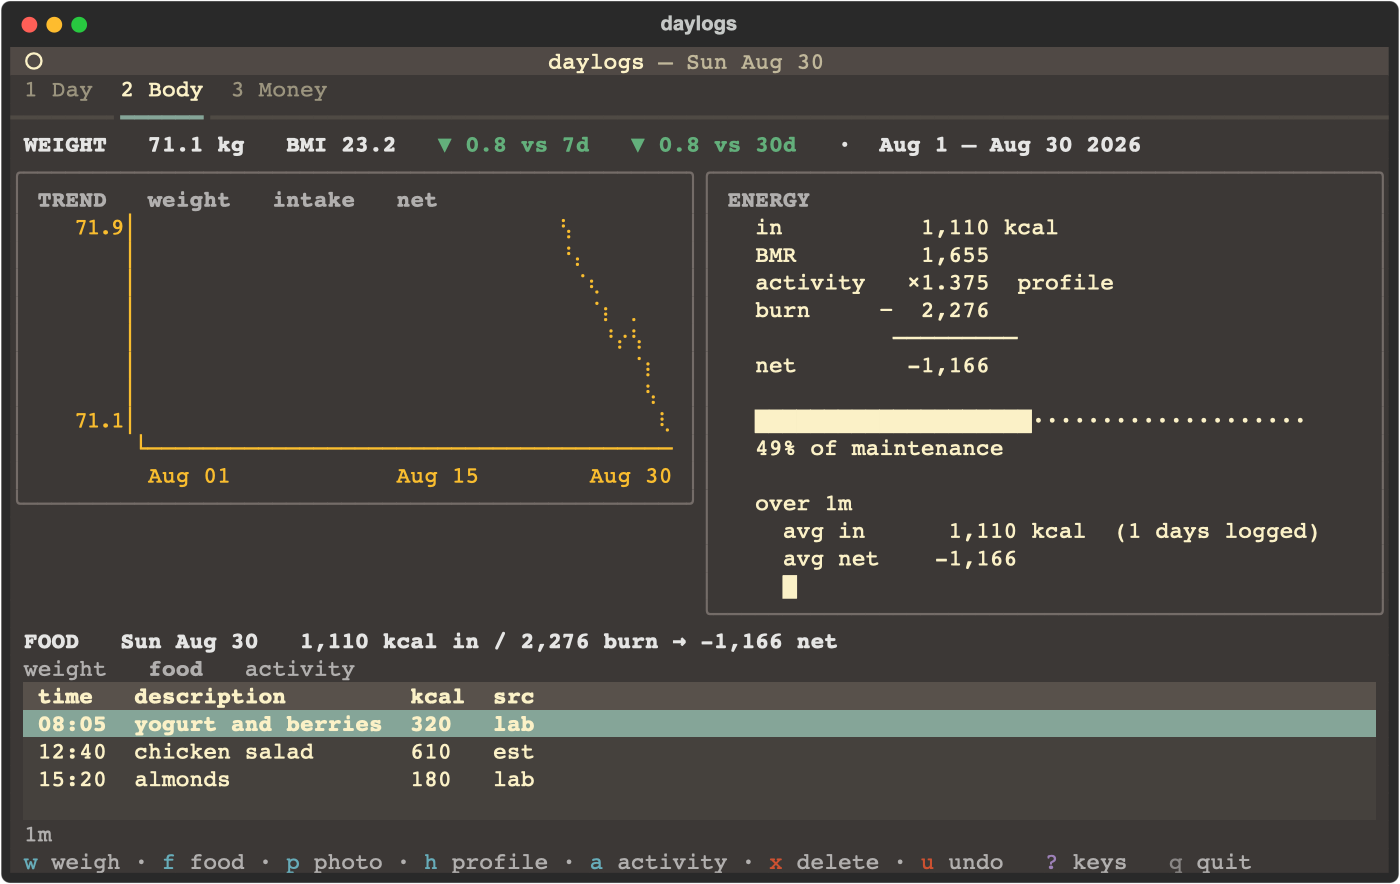
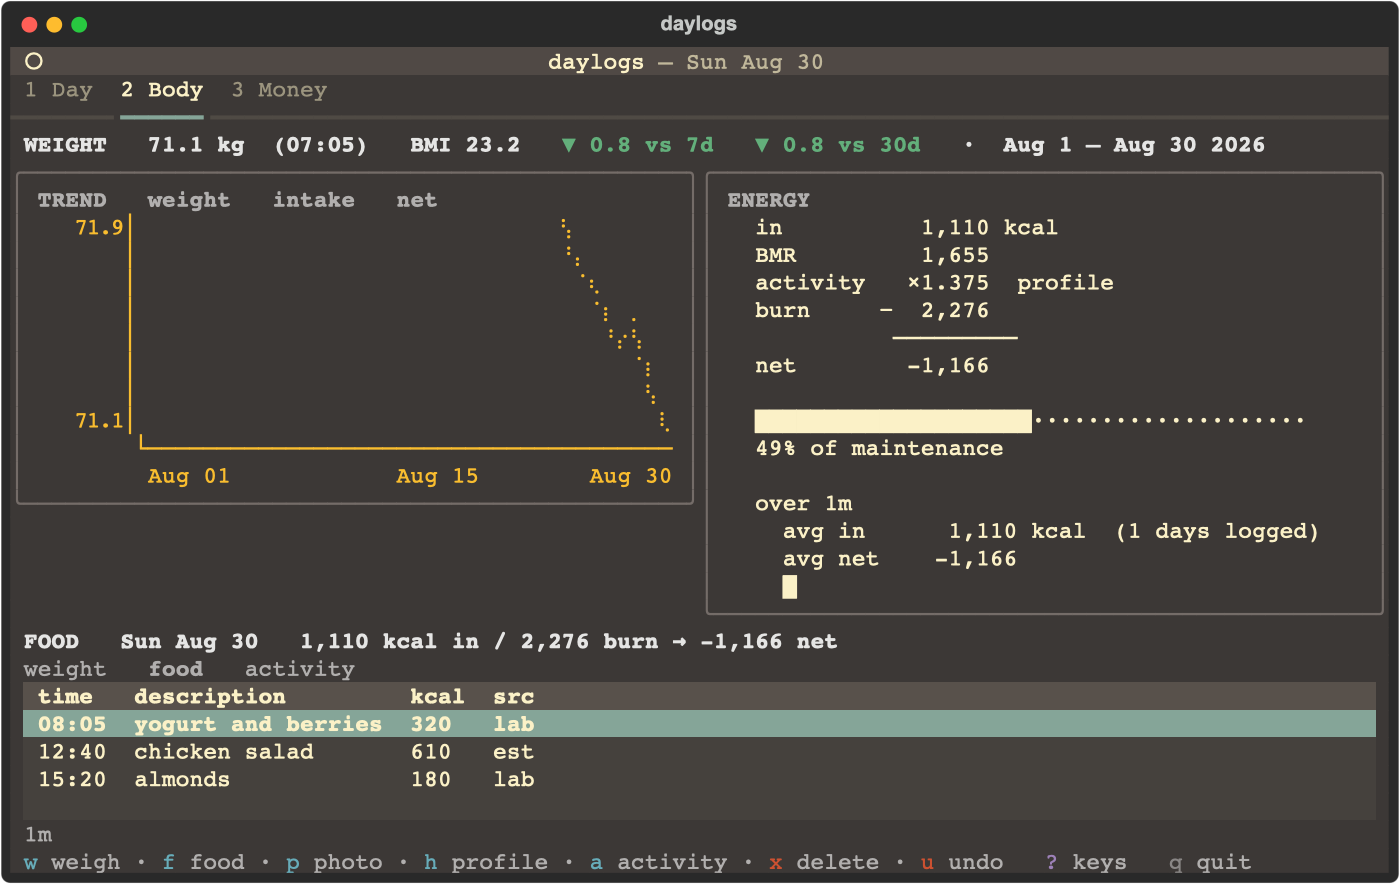
release: 0.3.0 (#30)
A minor bump rather than a patch: this line adds features, not just fixes. `a` logs
an activity and Claude infers the day's factor, `c` cycles the chart through weight /
intake / net, BMI appears beside the weight, `net` is measured against what the day
actually cost, and the timezone comes from the machine.

Contents since 0.2.0 — #23 net against burn plus BMI, #24 the `a` key and the
activity sub-view, #25 the calories chart, #26 the weight table honouring the
horizon, #27 one timezone taken from the machine, #29 six defects an adversarial
audit found plus the release gate and three missing tripwires.

`assets/body.png` regenerated: the WEIGHT header now states the reading's clock time,
because the headline is the latest reading while the trend uses each day's first.

The wheel guard drops the version literal it did not need. The next line already
discards any `.dist-info`, so naming one only went stale on every release — it still
said 0.2.0. Re-checked both ways: a clean wheel passes, a stray top-level package
still fails.

Verified: 1,218 tests under America/Toronto and UTC, ruff clean, and the sdist and
wheel built in a clean venv — `daylogs/` is the only package that ships, `day
--version` reports 0.3.0, and the install pulls textual's tree and nothing else.

Building locally first also caught a stale `build/lib/daybook` left from the rename,
which would have shipped a second package in a hand-built wheel. That is exactly the
[…]

Changed region(s): [[0.1843, 0.1527, 0.6757, 0.1833], [0.7064, 0.1527, 0.9214, 0.1833]]

diff --git a/daylogs/__init__.py b/daylogs/__init__.py
@@ -1,3 +1,3 @@
 """daylogs — weight, food, expenses, and one daily summary."""
 
-__version__ = "0.2.0"
+__version__ = "0.3.0"
